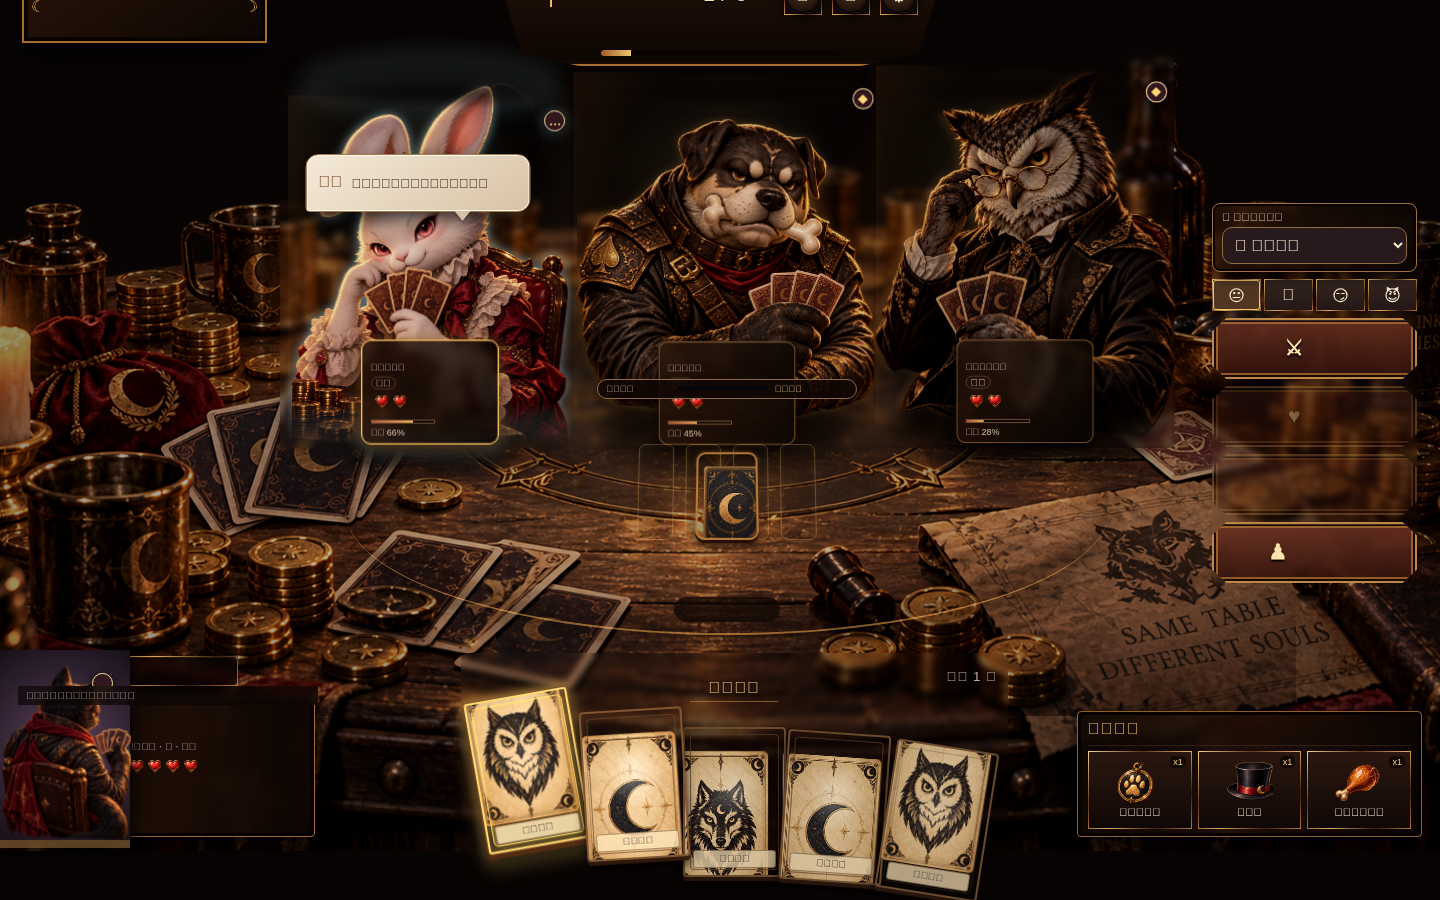
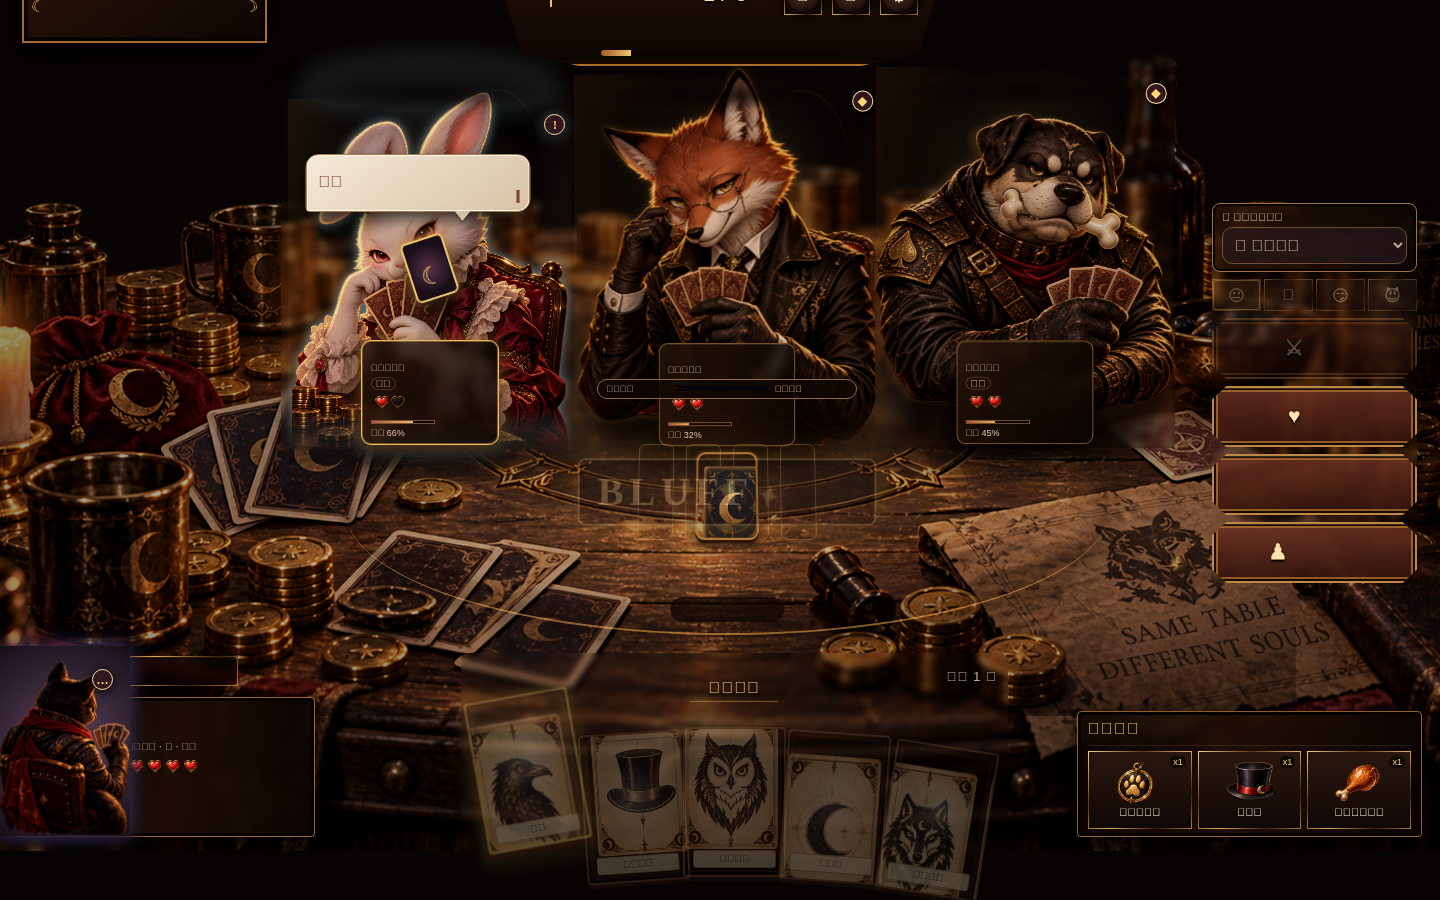
Complete staged battle card animation

diff --git a/game.js b/game.js
@@ -105,8 +105,9 @@
   }
   function flyCard(from,reverse=false){
     if(state?.skipMotion||save.reducedMotion||!from?.getBoundingClientRect)return;
-    const a=from.getBoundingClientRect(),b=els.centerCard.getBoundingClientRect(),clone=document.createElement('div');clone.className=`flying-card${reverse?' reverse':''}`;clone.textContent='☾';clone.style.cssText=`--sx:${a.left+a.width/2}px;--sy:${a.top+a.height/2}px;--tx:${b.left+b.width/2}px;--ty:${b.top+b.height/2}px`;document.body.append(clone);delay(()=>clone.remove(),720);
+    const a=from.getBoundingClientRect(),b=els.centerCard.getBoundingClientRect(),sx=a.left+a.width/2,sy=a.top+a.height/2,tx=b.left+b.width/2,ty=b.top+b.height/2,clone=document.createElement('div');clone.className=`flying-card${reverse?' reverse':''}`;clone.textContent='☾';clone.style.cssText=`--sx:${sx}px;--sy:${sy}px;--mx:${(sx+tx)/2}px;--my:${(sy+ty)/2}px;--tx:${tx}px;--ty:${ty}px`;els.table.classList.add('card-in-flight');document.body.append(clone);delay(()=>{clone.remove();els.table.classList.remove('card-in-flight');},720);
   }
+  function actionMotion(kind){els.battleScreen.dataset.action=kind;delay(()=>{if(els.battleScreen.dataset.action===kind)delete els.battleScreen.dataset.action;},560);}
   function endIntro(){
     els.introVideo.pause?.();
     els.introCinematic.classList.add('closing');
@@ -166,7 +167,7 @@
   function renderItems(){els.itemButtons.innerHTML='';ITEMS.forEach(item=>{const available=state.items[item.id],b=document.createElement('button');b.className=`item-${item.id}`;b.disabled=!available||state.phase==='resolving';b.title=item.desc;b.innerHTML=`<b class="item-icon" aria-hidden="true"></b><span>${item.name}</span><small>x${available?1:0}</small>`;b.onclick=()=>useItem(item.id);els.itemButtons.append(b);});}
   function render(){renderOpponents();els.playerHp.innerHTML=heartMarkup(Math.max(0,state.playerHp),4);els.playerHp.setAttribute('aria-label',`${Math.max(0,state.playerHp)} 点生命`);els.playerAvatar.innerHTML=portraitMarkup(state.player,state.playerMood);els.playerAvatar.className=`character-${state.player.id} mood-${state.playerMood}`;els.playerName.textContent=state.player.name;els.playerTitle.textContent=`${state.player.title} · 你 · ${EXPRESSIONS[state.playerMood]}`;els.playerAvatar.style.setProperty('--hero-color',state.player.color);els.roundLabel.textContent=`第 ${Math.min(state.round,state.maxRounds)} / ${state.maxRounds} 局`;els.progressBar.style.width=`${Math.min(100,state.round,state.maxRounds)/state.maxRounds*100}%`;els.coinsLabel.innerHTML=`<i class="coin-icon" aria-hidden="true"></i><span>${state.coins}</span>`;els.streakLabel.textContent=`🔥 ${state.streak}`;els.streakLabel.classList.toggle('hot',state.streak>=3);els.turnCallout.textContent=state.phase==='judge'?'判断回合':state.phase==='player'?'你的回合':'揭晓中';els.suspicionBar.style.width=`${state.suspicion===null?0:Math.round(state.suspicion*100)}%`;els.suspicionLabel.textContent=state.suspicion===null?'尚未出牌':state.suspicion<.35?'放松':state.suspicion<.65?'留意':'高度警觉';els.tensionMeter.classList.toggle('danger-zone',state.suspicion>=.65);els.soundBtn.textContent=state.sound?'🔊':'🔇';els.battleScreen.querySelectorAll?.('.round-progress-step').forEach(step=>step.classList.toggle('active',state.round>=Number(step.dataset.round)));renderItems();}
   function setPhase(phase){state.phase=phase;const judge=phase==='judge';els.playBtn.classList.toggle('hidden',judge);els.trustBtn.classList.toggle('hidden',!judge);els.challengeBtn.classList.toggle('hidden',!judge);els.playBtn.disabled=phase!=='player';els.claimSelect.disabled=phase!=='player';[...els.performanceButtons.children].forEach(b=>b.disabled=phase!=='player');renderHand();renderItems();}
-  function reveal(card){els.centerCard.classList.remove('flip');delete els.centerCard.dataset.card;els.centerCard.innerHTML='<span>☾</span>';requestAnimationFrame(()=>{els.centerCard.dataset.card=card.id;els.centerCard.classList.add('flip');els.centerCard.innerHTML=`<span>${card.emoji}</span>`;});}
+  function reveal(card){els.centerCard.classList.remove('flip');delete els.centerCard.dataset.card;els.centerCard.innerHTML='<span>☾</span>';const flip=()=>requestAnimationFrame(()=>{els.centerCard.dataset.card=card.id;els.centerCard.classList.add('flip');els.centerCard.innerHTML=`<span>${card.emoji}</span>`;});els.table.classList.contains('card-in-flight')?delay(flip,520):flip();}
   function nextLiving(from=state.active){for(let n=1;n<=state.rivals.length;n++){const i=(from+n)%state.rivals.length;if(state.rivals[i].hp>0)return i;}return -1;}
   function beginRound(){if(state.playerHp<=0||state.rivals.every(a=>a.hp<=0)||state.round>state.maxRounds)return finishGame();state.active=state.rivals[state.active].hp>0?state.active:nextLiving(state.active);state.rivals.forEach((a,i)=>a.mood=i===state.active?'thinking':'idle');state.playerMood='idle';state.suspicion=null;state.forceTrust=false;state.move=null;state.activeEvent=state.round%2===0?rand(EVENTS):null;drawHand();els.centerCard.classList.remove('flip');delete els.centerCard.dataset.card;els.centerCard.innerHTML='<span>☾</span>';els.resultText.textContent=`轮到${state.player.name}出牌`;say(activeAI().name,activeAI().hello);motion(`${activeAI().name}正在观察${state.player.name}的手牌。`);els.eventBanner.classList.toggle('hidden',!state.activeEvent);if(state.activeEvent){els.eventBanner.innerHTML=`<b>${state.activeEvent.emoji} ${state.activeEvent.name}</b><span>${state.activeEvent.text}</span>`;log(`🎲 特殊事件：${state.activeEvent.name}——${state.activeEvent.text}`);}setPhase('player');render();}
   function advance(){state.round++;const next=nextLiving(state.active);if(next>=0)state.active=next;delay(beginRound,700);}
@@ -175,11 +176,11 @@
   function cardReward(cards,kind){if(kind==='truth'&&cards.some(c=>c.id==='bone')){state.coins+=5;log('🍖 黄金骨头闪光：诚实奖金 +5。');}if(kind==='bluff'&&cards.some(c=>c.id==='cheese')){state.coins+=5;log('🧀 贵族奶酪发酵：骗术奖金 +5。');}}
   function healFromHoney(){if(state.honeyUsed||!state.hand.some(c=>c.id==='honey')||state.playerHp>=4)return;state.honeyUsed=true;state.playerHp++;log('🍯 午夜蜂蜜生效：判断精准，恢复 1❤。');toast('午夜蜂蜜恢复生命！');}
   function hurtPlayer(reason){if(state.player.id==='shadow'&&!state.dodged&&Math.random()<.25){state.dodged=true;state.playerMood='smug';log('🐾 猫的直觉发动：夜影贴着伤害滑走了！');toast('闪避！');return false;}state.playerHp--;state.streak=0;state.playerMood='hurt';log(reason);return true;}
-  function playerPlay(){if(state.phase!=='player')return;if(!state.selected.length)return toast('先选至少 1 张牌');state.selected.forEach(i=>flyCard(els.hand.querySelector?.(`[data-card-index="${i}"]`)));const ai=activeAI(),cards=state.selected.map(i=>state.hand[i]),claim=els.claimSelect.value,truth=claimTrue(cards,claim);state.currentCards=cards;state.lieHistory.push(!truth);let suspicion=ai.doubt+({calm:-.12,cute:-.07,smug:.06,taunt:.15})[state.performance]+state.lieHistory.slice(-3).filter(Boolean).length*.04+(state.activeEvent?.suspicion||0)-(cards.some(c=>c.id==='fish')?.08:0);if(state.player.id==='tail'&&state.performance==='smug')suspicion-=.15;if(state.player.id==='snow'&&state.performance==='cute')suspicion-=.15;state.suspicion=clamp(suspicion,.12,.9);state.playerMood='smug';ai.mood=state.suspicion>=.6?'suspicious':'thinking';setPhase('resolving');render();motion(`${ai.name}的怀疑正在上升，视线锁定牌背。`);const challenge=!state.forceTrust&&Math.random()<state.suspicion;log(`${state.player.emoji} ${state.player.name}盖下 ${cards.length} 张，宣称全是「${cardBy(claim).name}」。`);if(challenge){ai.mood='smug';say(ai.name,rand(['你刚才眨眼了。抓现行！','这味道不对——开牌！','慢着！我的胡须在报警！']));reveal(cards.find(c=>!c.wild&&c.id!==claim)||cards[0]);if(truth){damage(ai,`✅ ${ai.name}质疑错了，撞上货真价实！ -1❤`);reward(15);cardReward(cards,'truth');state.streak++;els.resultText.textContent='真话反杀！';tableEffect('反 将 一 军','good');animate('good');}else{hurtPlayer(`💥 谎言露馅！${ai.name}笑到钻进桌底。${state.player.name} -1❤`);els.resultText.textContent='大型社死现场';tableEffect('谎 言 破 裂','bad');animate('bad');}advance();}else{say(ai.name,state.forceTrust?'好臭！我什么都信！':rand(['……这次放你过去。','我信，但我的尾巴不信。','听起来居然像真的。']));if(!truth){damage(ai,`😏 ${ai.name}吞下了整套谎言！ -1❤`);reward(25);cardReward(cards,'bluff');state.streak++;state.playerMood='win';els.resultText.textContent='骗术大成功！';motion(`${state.player.name}的谎言完美落桌。`);tableEffect('BLUFF 成 功','good');animate('good');}else{reward(5);cardReward(cards,'truth');log(`😇 ${ai.name}相信了真话。安全，但不够坏。`);els.resultText.textContent='诚实得令人可疑';tone('tap');}delay(enemyTurn,650);}render();}
+  function playerPlay(){if(state.phase!=='player')return;if(!state.selected.length)return toast('先选至少 1 张牌');actionMotion('player-play');state.selected.forEach(i=>flyCard(els.hand.querySelector?.(`[data-card-index="${i}"]`)));const ai=activeAI(),cards=state.selected.map(i=>state.hand[i]),claim=els.claimSelect.value,truth=claimTrue(cards,claim);state.currentCards=cards;state.lieHistory.push(!truth);let suspicion=ai.doubt+({calm:-.12,cute:-.07,smug:.06,taunt:.15})[state.performance]+state.lieHistory.slice(-3).filter(Boolean).length*.04+(state.activeEvent?.suspicion||0)-(cards.some(c=>c.id==='fish')?.08:0);if(state.player.id==='tail'&&state.performance==='smug')suspicion-=.15;if(state.player.id==='snow'&&state.performance==='cute')suspicion-=.15;state.suspicion=clamp(suspicion,.12,.9);state.playerMood='smug';ai.mood=state.suspicion>=.6?'suspicious':'thinking';setPhase('resolving');render();motion(`${ai.name}的怀疑正在上升，视线锁定牌背。`);const challenge=!state.forceTrust&&Math.random()<state.suspicion;log(`${state.player.emoji} ${state.player.name}盖下 ${cards.length} 张，宣称全是「${cardBy(claim).name}」。`);if(challenge){ai.mood='smug';say(ai.name,rand(['你刚才眨眼了。抓现行！','这味道不对——开牌！','慢着！我的胡须在报警！']));reveal(cards.find(c=>!c.wild&&c.id!==claim)||cards[0]);if(truth){damage(ai,`✅ ${ai.name}质疑错了，撞上货真价实！ -1❤`);reward(15);cardReward(cards,'truth');state.streak++;els.resultText.textContent='真话反杀！';tableEffect('反 将 一 军','good');animate('good');}else{hurtPlayer(`💥 谎言露馅！${ai.name}笑到钻进桌底。${state.player.name} -1❤`);els.resultText.textContent='大型社死现场';tableEffect('谎 言 破 裂','bad');animate('bad');}advance();}else{say(ai.name,state.forceTrust?'好臭！我什么都信！':rand(['……这次放你过去。','我信，但我的尾巴不信。','听起来居然像真的。']));if(!truth){damage(ai,`😏 ${ai.name}吞下了整套谎言！ -1❤`);reward(25);cardReward(cards,'bluff');state.streak++;state.playerMood='win';els.resultText.textContent='骗术大成功！';motion(`${state.player.name}的谎言完美落桌。`);tableEffect('BLUFF 成 功','good');animate('good');}else{reward(5);cardReward(cards,'truth');log(`😇 ${ai.name}相信了真话。安全，但不够坏。`);els.resultText.textContent='诚实得令人可疑';tone('tap');}delay(enemyTurn,650);}render();}
   function enemyTurn(){
     state.currentCards=null;
     if(state.playerHp<=0||activeAI().hp<=0)return advance();
-    const ai=activeAI(),wantsLie=Math.random()<ai.lie,claims=CARDS.filter(c=>!c.wild),claim=rand(claims).id;
+    const ai=activeAI(),wantsLie=Math.random()<ai.lie,claims=CARDS.filter(c=>!c.wild),claim=rand(claims).id;actionMotion('enemy-play');
     ai.mood=wantsLie?'smug':'thinking';state.playerMood='thinking';state.suspicion=null;flyCard(els.opponents.querySelector?.('.opponent.active .avatar'));motion(`${ai.name}把牌推向桌心，观察你的眼睛。`);
     let cards;
     if(wantsLie){do{cards=[rand(CARDS),rand(CARDS)];}while(claimTrue(cards,claim));}

diff --git a/styles.css b/styles.css
@@ -395,3 +395,22 @@ button,.screen,.topbar,.opponent,.speech,.player-strip,.hand-area,.controls,.ite
 .battle .currency span{vertical-align:middle}
 .battle .heart-icon{width:17px;height:15px;margin-right:1px;vertical-align:middle;background-size:517% 494%}
 .battle .heart-icon.full{background-position:5% 95%}.battle .heart-icon.empty{background-position:35% 95%;opacity:.72}
+
+/* 完整出牌演出与高级材质反馈。 */
+@media(min-width:900px){
+  .battle .flying-card{width:62px;height:88px;border:1px solid #d5a452;border-radius:5px;animation:card-flight-table .72s cubic-bezier(.2,.72,.22,1) both;filter:drop-shadow(0 7px 8px #000) drop-shadow(0 0 6px rgba(231,174,79,.48))}
+  .battle .table.card-in-flight .center-card{animation:center-await-card .72s ease-out}
+  .battle[data-action="player-play"] #playerAvatar{animation:player-deal .5s ease-out both}
+  .battle[data-action="enemy-play"] .opponent.active .portrait-motion{animation:opponent-deal .5s ease-out both}
+  .battle[data-action="player-play"] .played-stack:after,.battle[data-action="enemy-play"] .played-stack:after{content:"✦";position:absolute;left:50%;top:50%;translate:-50% -50%;color:#ffd77c;font-size:18px;text-shadow:-24px 5px #dd9a45,25px -3px #efc368,5px 22px #b87534;animation:deal-sparks .7s ease-out both}
+  .battle .card-btn:after{inset:3px;z-index:4;border-color:rgba(231,185,102,.16);background:linear-gradient(112deg,transparent 25%,rgba(255,239,188,.52) 46%,transparent 61%) -190px 0/70px 100% no-repeat;transition:background-position .48s ease,box-shadow .2s ease}
+  .battle .card-btn:hover:after,.battle .card-btn.selected:after{background-position:190px 0;box-shadow:inset 0 0 12px rgba(244,194,94,.28)}
+  .battle .actions button:after{content:"";position:absolute;inset:3px;pointer-events:none;background:linear-gradient(112deg,transparent 25%,rgba(255,225,157,.34) 46%,transparent 62%) -220px 0/75px 100% no-repeat;transition:background-position .42s ease}
+  .battle .actions button:hover:after{background-position:220px 0}
+}
+@keyframes card-flight-table{0%{transform:translate(calc(var(--sx) - 31px),calc(var(--sy) - 44px)) rotate(-8deg) scale(1);opacity:.96}48%{transform:translate(calc(var(--mx) - 31px),calc(var(--my) - 76px)) rotate(5deg) scale(.92);opacity:1}100%{transform:translate(calc(var(--tx) - 31px),calc(var(--ty) - 44px)) rotate(0) scale(1);opacity:1}}
+@keyframes center-await-card{0%,75%{filter:brightness(.72)}100%{filter:brightness(1.14) drop-shadow(0 0 7px #d89b46)}}
+@keyframes player-deal{45%{transform:translate(5px,-3px) rotate(1deg)}100%{transform:none}}
+@keyframes opponent-deal{48%{transform:translateY(5px) scale(1.012)}100%{transform:none}}
+@keyframes deal-sparks{from{opacity:0;transform:scale(.35) rotate(-20deg)}45%{opacity:1}to{opacity:0;transform:scale(1.8) rotate(18deg)}}
+@media(prefers-reduced-motion:reduce){.battle .flying-card,.battle .table.card-in-flight .center-card,.battle[data-action] .portrait-motion,.battle[data-action] #playerAvatar{animation:none!important}}
